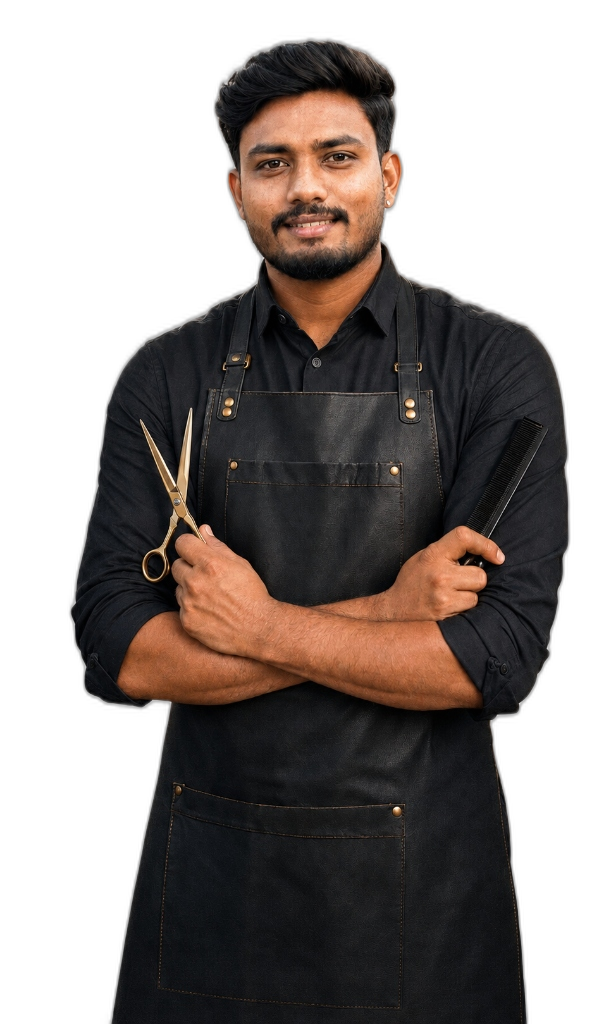
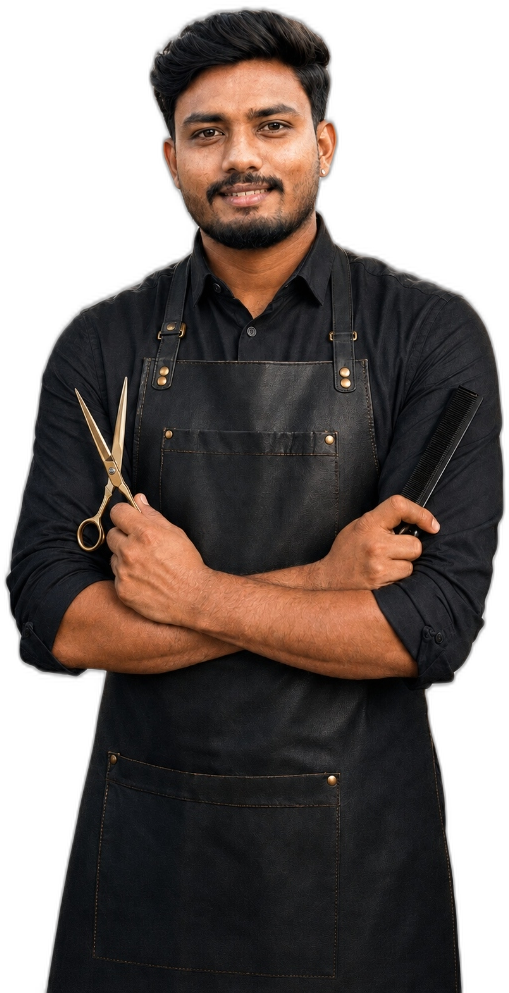
Remove decorative circles and significantly enlarge cutout portrait photo on Barber Card

diff --git a/static/css/style.css b/static/css/style.css
@@ -2979,17 +2979,17 @@ textarea.form-control { resize:vertical; min-height:100px; }
    Breaking-the-frame / Image Overflow Card Architecture
 --------------------------------------------------------------- */
 .barber-wheel { 
-  margin: 6.5rem 0 1rem; 
+  margin: 8.5rem 0 1rem; 
   --wheel-w: min(400px, calc(100vw - 48px)); 
   position: relative;
 }
 .barber-wheel__stage {
   cursor: grab; 
-  height: 610px; 
-  min-height: 600px; 
+  height: 630px; 
+  min-height: 620px; 
   outline: none; 
   overflow: visible !important;
-  padding: 120px 0 20px; 
+  padding: 140px 0 20px; 
   perspective: 1000px; 
   perspective-origin: 50% 34%;
   position: relative; 
@@ -3015,13 +3015,13 @@ textarea.form-control { resize:vertical; min-height:100px; }
   flex-direction: column; 
   justify-content: space-between;
   gap: 12px; 
-  height: calc(100% - 110px);
-  min-height: 460px;
+  height: calc(100% - 120px);
+  min-height: 470px;
   left: 50%; 
   overflow: visible !important; 
-  padding: 155px 24px 22px 24px; 
+  padding: 175px 24px 22px 24px; 
   position: absolute;
-  top: 110px; 
+  top: 120px; 
   transform-style: preserve-3d; 
   text-align: left; 
   width: var(--wheel-w);
@@ -3044,15 +3044,15 @@ textarea.form-control { resize:vertical; min-height:100px; }
 }
 .barber-wheel__stage.wheel-dragging .barber-wheel__card { transition: none; }
 
-/* 2. Floating Cutout Portrait Breaking Top Border */
+/* 2. Floating Large Cutout Portrait Breaking Top Border */
 .barber-wheel__avatar { 
   margin: 0;
   position: absolute; 
-  top: -130px; 
+  top: -180px; 
   left: 50%;
   transform: translateX(-50%);
-  width: 250px; 
-  height: 290px; 
+  width: 320px; 
+  height: 380px; 
   z-index: 15;
   display: flex;
   align-items: center;
@@ -3076,46 +3076,26 @@ textarea.form-control { resize:vertical; min-height:100px; }
   height: 100%;
   object-fit: contain;
   object-position: top center;
-  filter: drop-shadow(0 0 24px rgba(212,175,55,0.45));
-  -webkit-mask-image: linear-gradient(to bottom, black 70%, transparent 98%);
-  mask-image: linear-gradient(to bottom, black 70%, transparent 98%);
+  filter: drop-shadow(0 0 26px rgba(212,175,55,0.45));
+  -webkit-mask-image: linear-gradient(to bottom, black 72%, transparent 98%);
+  mask-image: linear-gradient(to bottom, black 72%, transparent 98%);
 }
 .barber-photo-initials, .barber-card-icon {
-  width: 110px;
-  height: 110px;
+  width: 120px;
+  height: 120px;
   border-radius: 50%;
   border: 2.5px solid #d4af37;
   background: #11141c;
   display: flex;
   align-items: center;
   justify-content: center;
-  font-size: 2.2rem;
+  font-size: 2.4rem;
   color: #ffd700;
   box-shadow: 0 0 25px rgba(212,175,55,0.4);
 }
 
-/* 3. Decorative Gold Halo Behind Cutout */
-.wheel-ring { border-radius: 50%; display: block; position: absolute; pointer-events: none; }
-.wheel-ring--outer { 
-  border: 2px dashed rgba(212,175,55,0.65); 
-  width: 210px; 
-  height: 210px; 
-  top: 10px; 
-  left: 50%;
-  transform: translateX(-50%);
-  z-index: 1;
-  box-shadow: 0 0 30px rgba(212,175,55,0.25);
-}
-.wheel-ring--inner { 
-  border: 1.5px solid rgba(212,175,55,0.35); 
-  width: 192px; 
-  height: 192px; 
-  top: 19px; 
-  left: 50%;
-  transform: translateX(-50%);
-  z-index: 2;
-}
-.barber-wheel__card.selected .wheel-ring--inner { border-color: rgba(243,216,106,0.9); }
+/* Circles Removed */
+.wheel-ring { display: none !important; }
 
 /* 4. Normal Document Flow Content Inside Card */
 .barber-wheel__body { 
@@ -3326,39 +3306,29 @@ textarea.form-control { resize:vertical; min-height:100px; }
 /* 8. Mobile & Responsive Refinements */
 @media (max-width: 768px) {
   .barber-wheel { 
-    margin: 5.5rem 0 1rem; 
+    margin: 7.5rem 0 1rem; 
     --wheel-w: calc(100vw - 36px); 
   }
   .barber-wheel__stage {
-    height: 560px; 
-    min-height: 550px; 
-    padding: 95px 0 15px; 
+    height: 590px; 
+    min-height: 580px; 
+    padding: 110px 0 15px; 
   }
   .barber-wheel__card {
-    top: 95px;
-    height: calc(100% - 95px);
-    min-height: 440px;
-    padding: 135px 18px 18px 18px;
+    top: 110px;
+    height: calc(100% - 110px);
+    min-height: 450px;
+    padding: 155px 18px 18px 18px;
     gap: 10px;
     border-radius: 24px;
   }
   .barber-wheel__avatar {
-    top: -100px;
-    width: 195px;
-    height: 235px;
-  }
-  .wheel-ring--outer {
-    width: 175px;
-    height: 175px;
-    top: 20px;
-  }
-  .wheel-ring--inner {
-    width: 160px;
-    height: 160px;
-    top: 28px;
+    top: -145px;
+    width: 260px;
+    height: 310px;
   }
   .barber-wheel__body h4 {
-    font-size: 1.22rem;
+    font-size: 1.24rem;
   }
   .b-role {
     font-size: 0.98rem;

diff --git a/templates/home.html b/templates/home.html
@@ -306,8 +306,6 @@
                  aria-checked="{% if b.is_featured %}true{% else %}false{% endif %}" tabindex="-1"
                  {% if b.is_featured %}data-preferred-barber{% endif %}>
               <div class="barber-wheel__avatar">
-                <span class="wheel-ring wheel-ring--outer" aria-hidden="true"></span>
-                <span class="wheel-ring wheel-ring--inner" aria-hidden="true"></span>
                 <div class="barber-photo">
                   {% if b.photo %}
                     <img src="{{ b.photo.url }}" alt="{{ b.name }}" loading="lazy" />
@@ -353,8 +351,6 @@
                  data-barber-id="" data-barber-name="Any Available Barber" role="radio"
                  aria-checked="false" tabindex="-1">
               <div class="barber-wheel__avatar">
-                <span class="wheel-ring wheel-ring--outer" aria-hidden="true"></span>
-                <span class="wheel-ring wheel-ring--inner" aria-hidden="true"></span>
                 <div class="barber-card-icon"><i class="fa-solid fa-bolt"></i></div>
               </div>
               <div class="barber-wheel__body">
